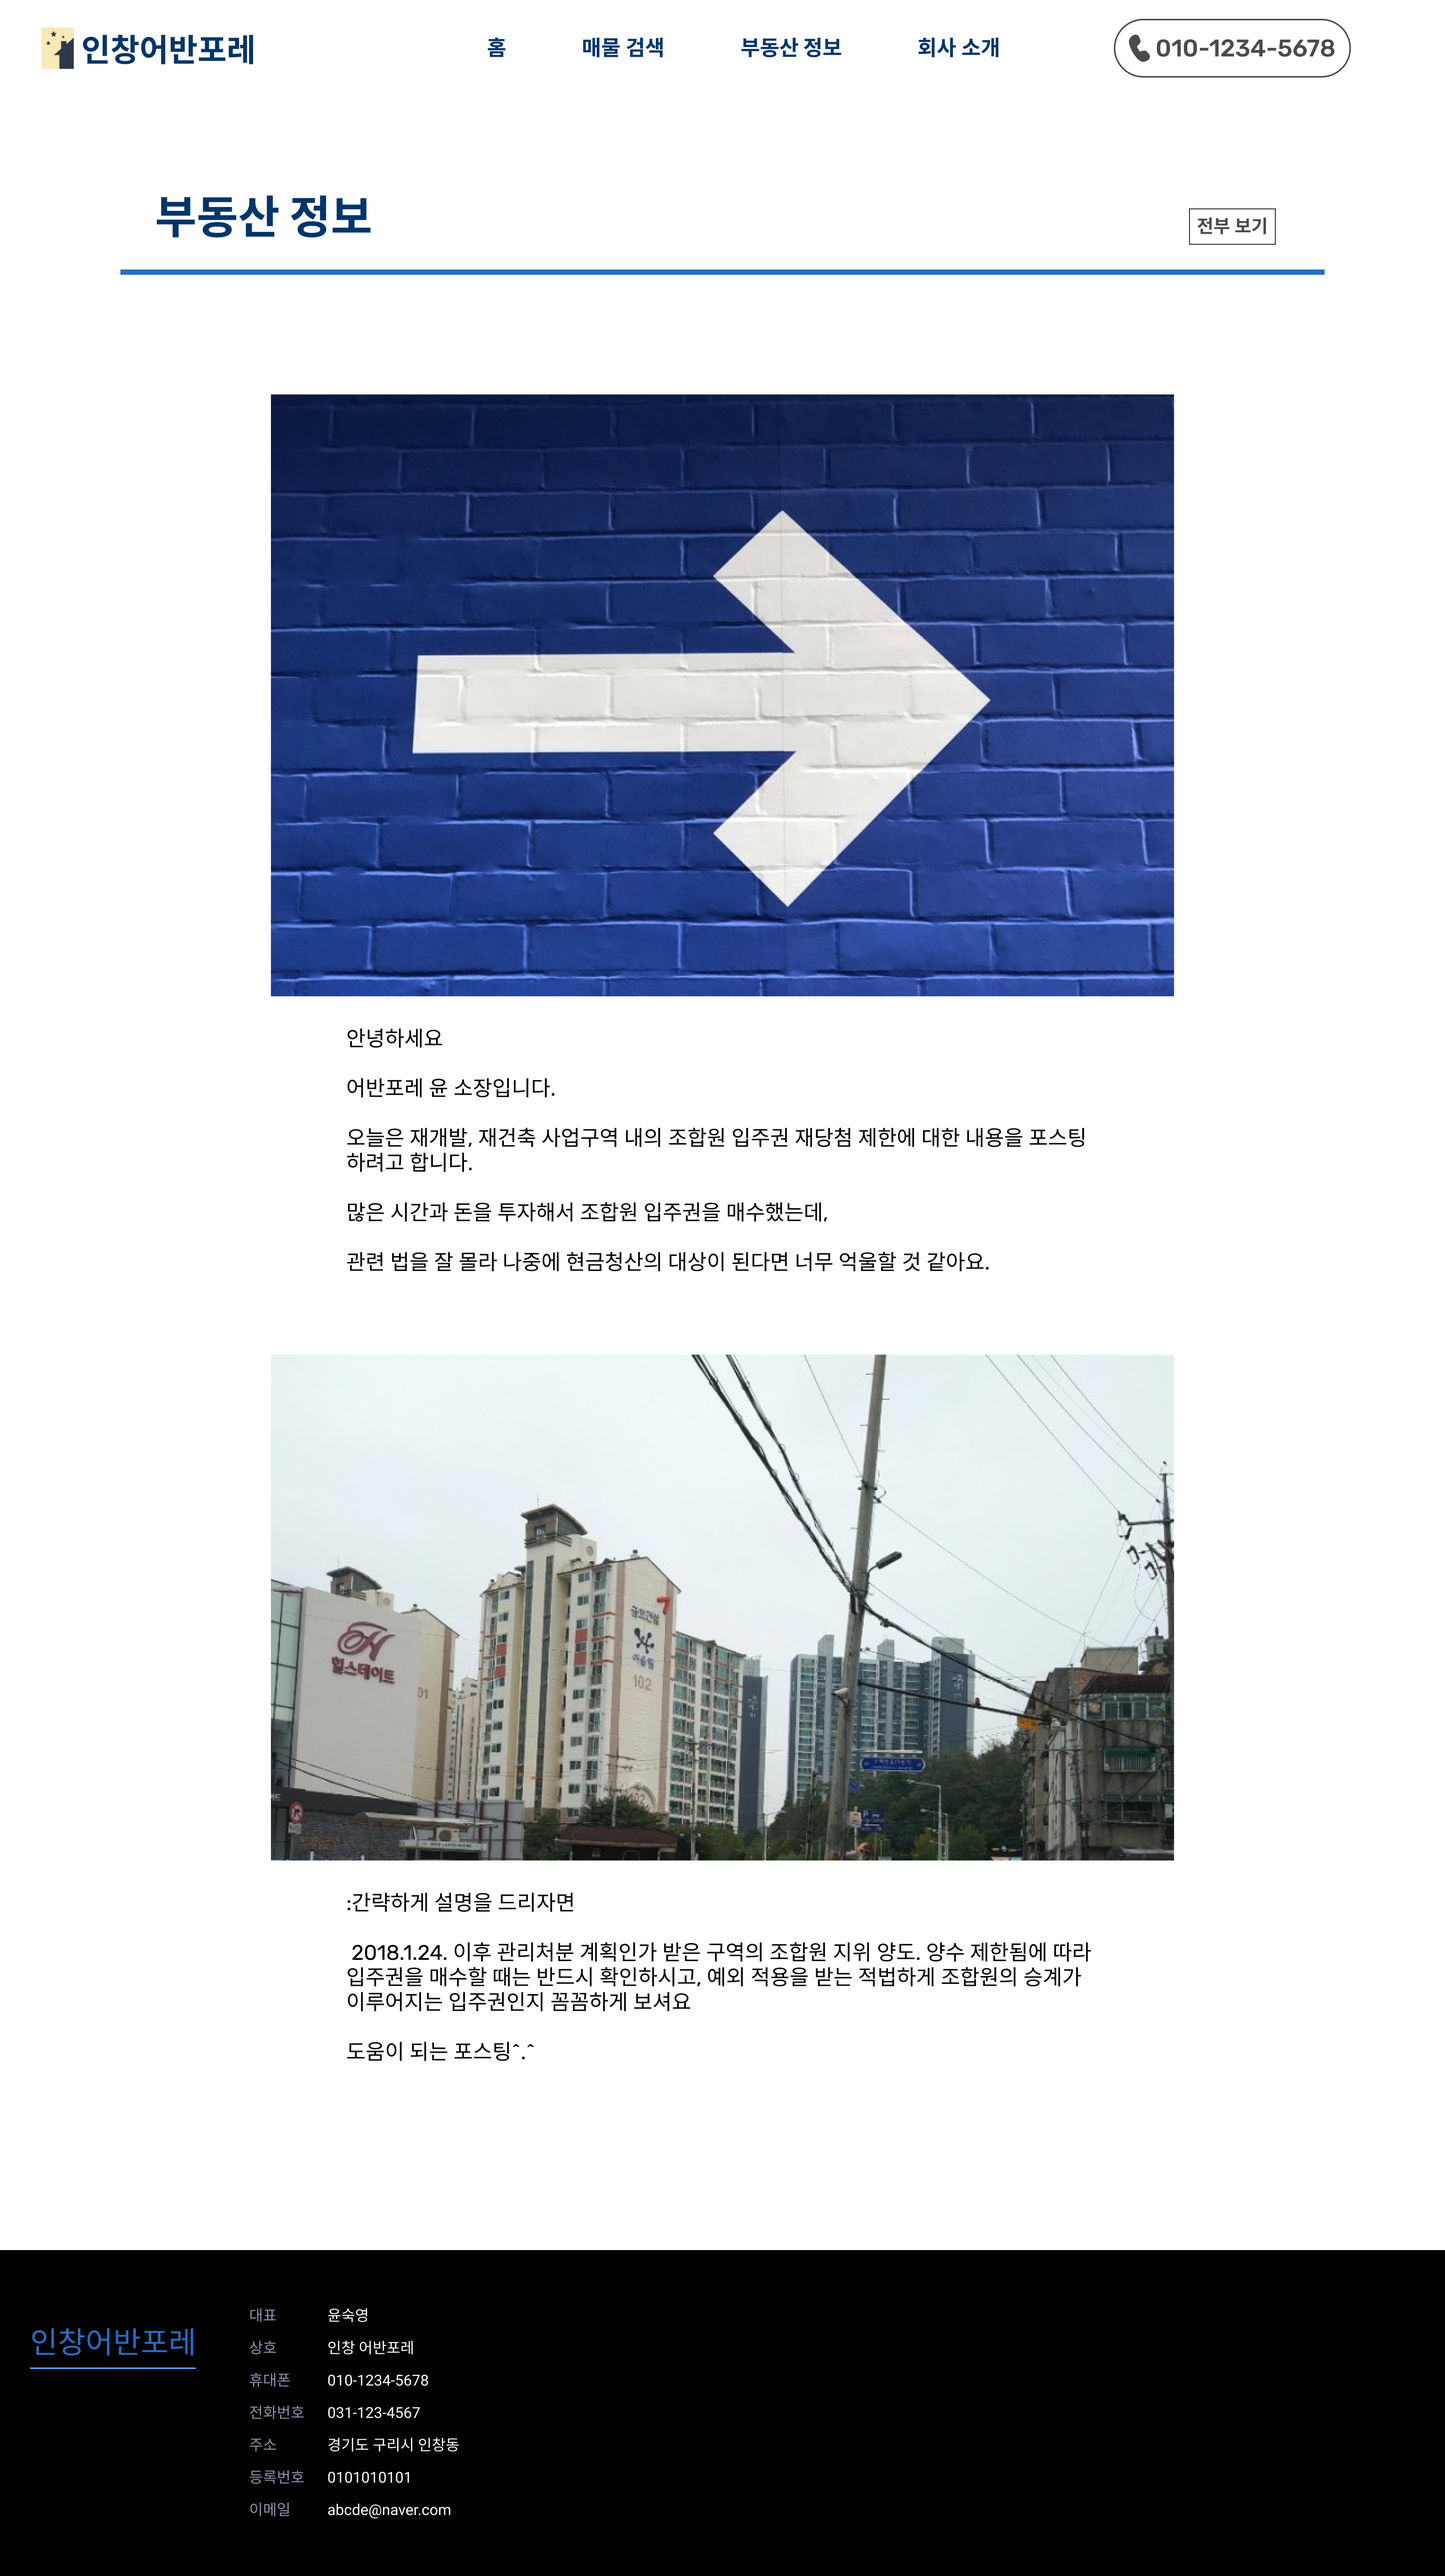
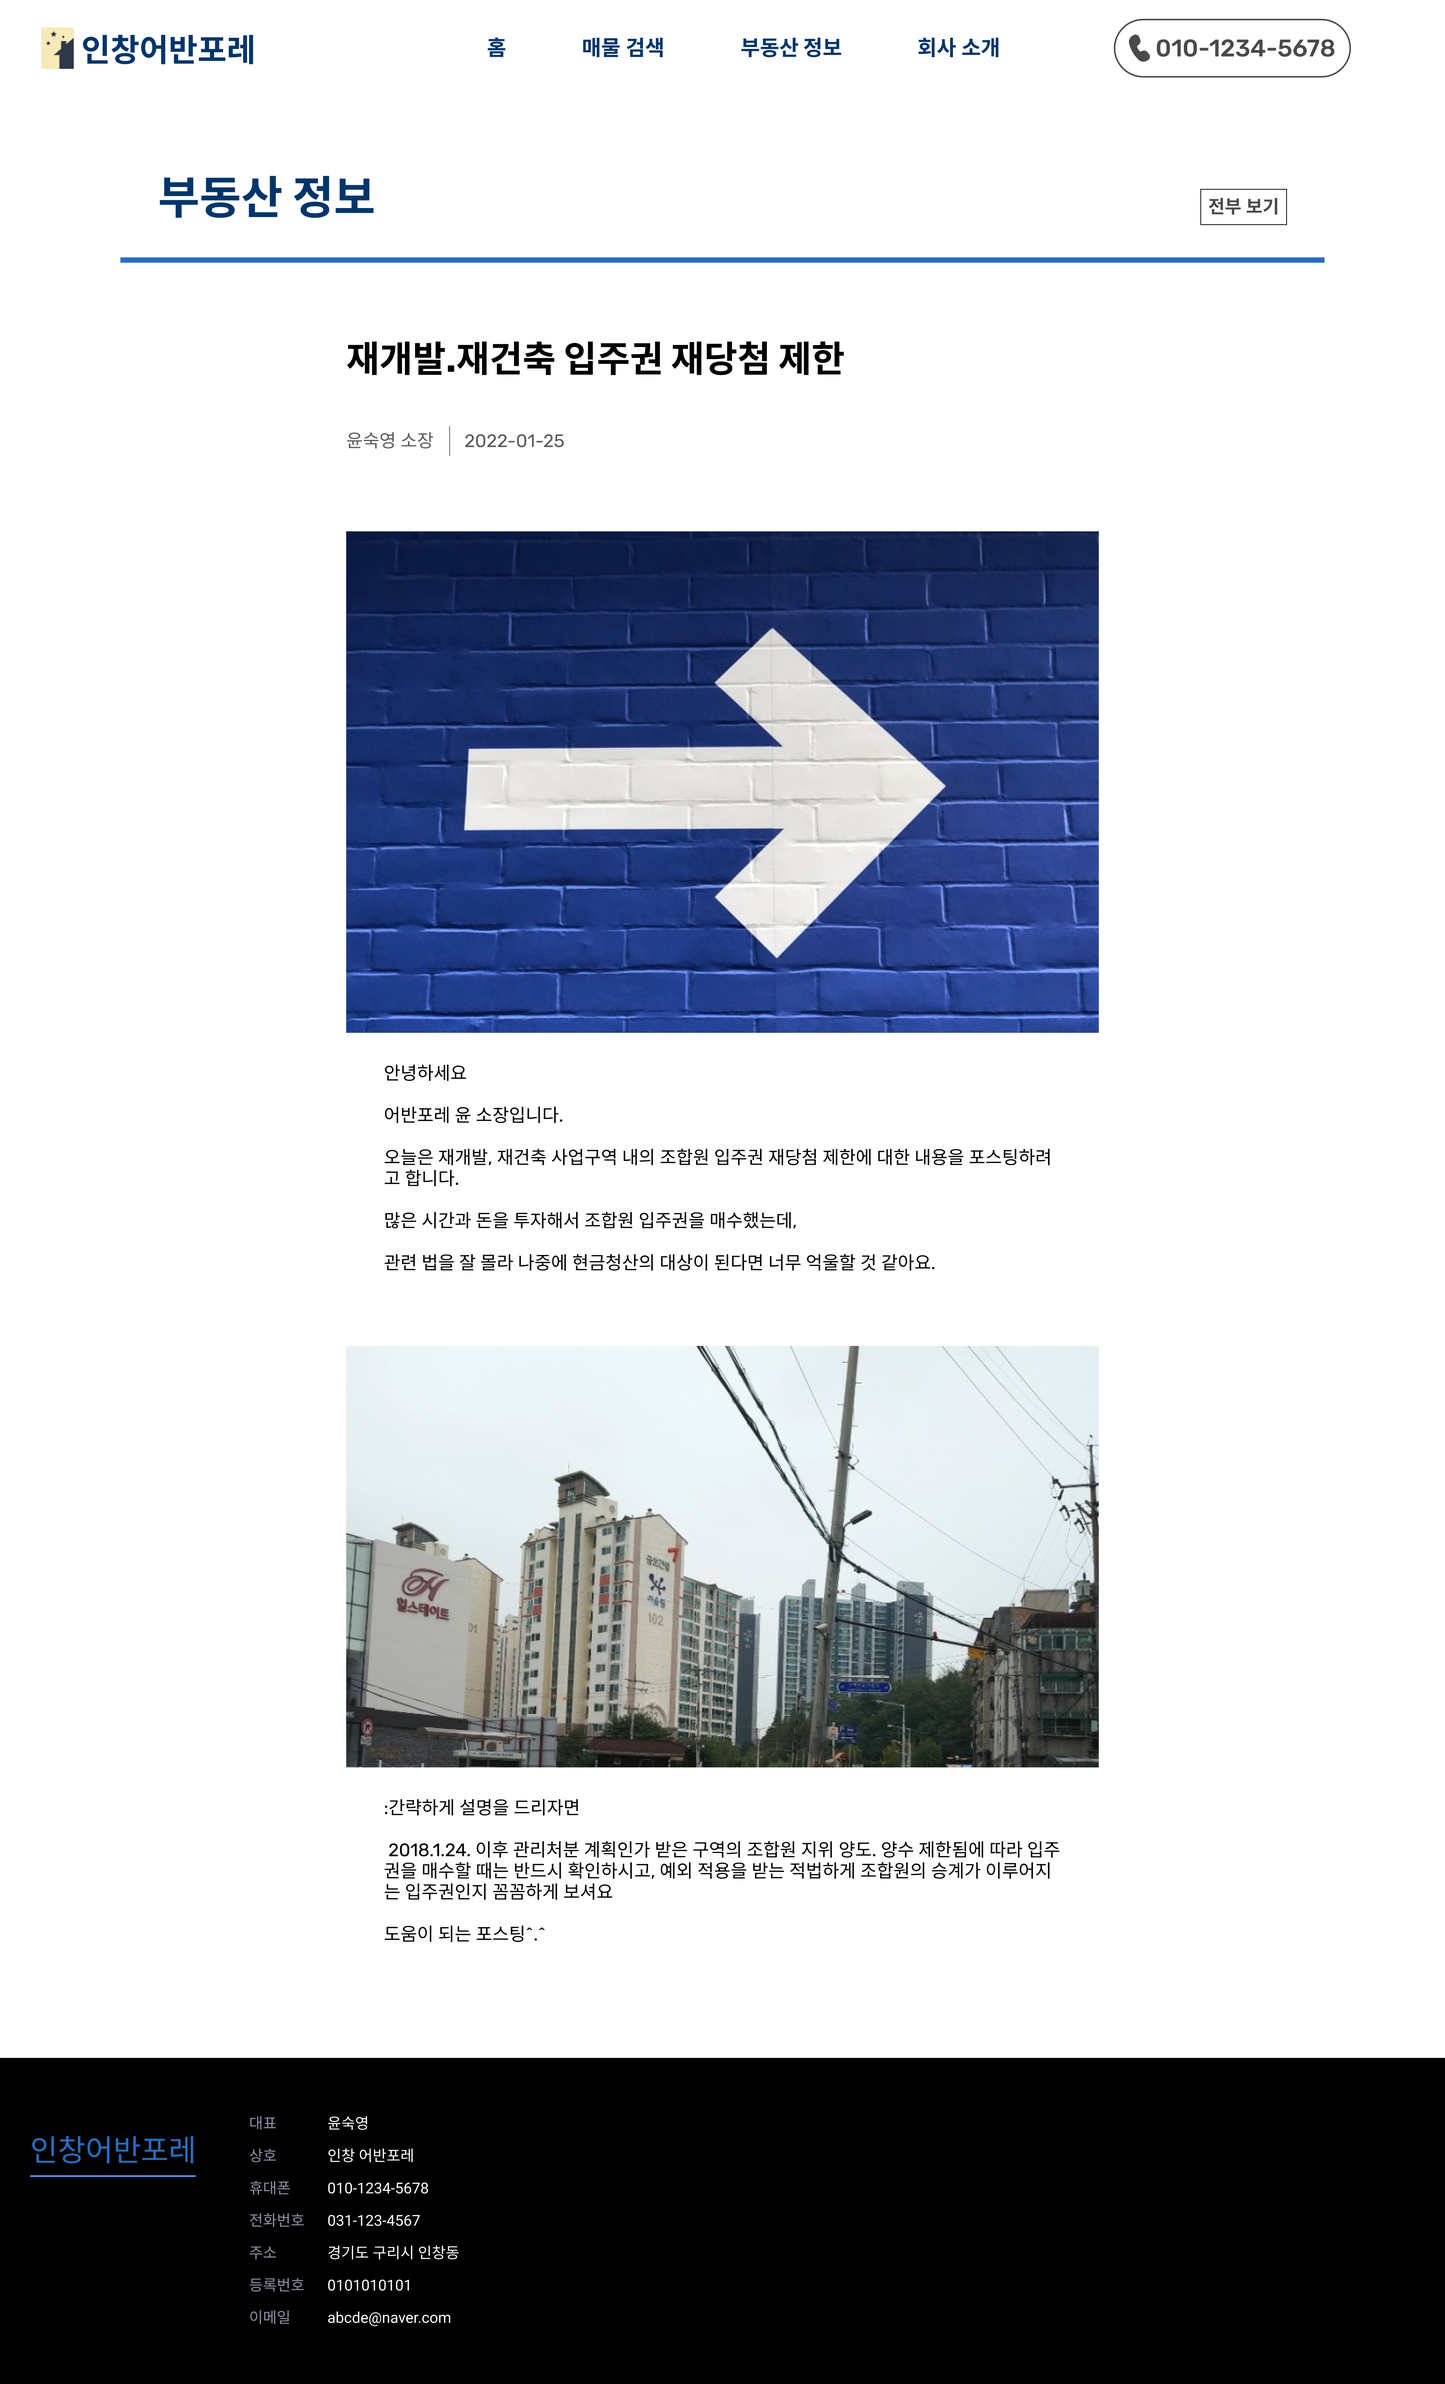
데스크탑, 모바일 이미지 반응형 적용

diff --git a/saleInfo/saleInfo.html b/saleInfo/saleInfo.html
@@ -14,7 +14,12 @@
     </style>
   </head>
   <body>
-    <img src="img/saleInfo.png" alt="urbanfore" />
+    <picture>
+      <source srcset="img/saleInfo-pc.png" media="(min-width: 769px)" />
+      <source srcset="img/saleInfo.png" media="(max-width: 768px)" />
+      <img src="img/saleInfo-pc.png" alt="이미지" />
+    </picture>
+    <!-- <img src="img/saleInfo.png" alt="urbanfore" /> -->
     <p>
       <a href="../index.html">홈</a>
       <a href="../saleList/saleList.html">매물 목록</a>

diff --git a/saleList/saleList.html b/saleList/saleList.html
@@ -14,7 +14,12 @@
     </style>
   </head>
   <body>
-    <img src="img/saleList.png" alt="urbanfore" />
+    <picture>
+      <source srcset="img/saleList-pc.png" media="(min-width: 769px)" />
+      <source srcset="img/saleList.png" media="(max-width: 768px)" />
+      <img src="img/saleList-pc.png" alt="이미지" />
+    </picture>
+    <!-- <img src="img/saleList.png" alt="urbanfore" /> -->
     <p>
       <a href="../index.html">홈</a>
       <a href="../saleList/saleList.html">매물 목록</a>

diff --git a/saleMap/saleMap.html b/saleMap/saleMap.html
@@ -14,7 +14,12 @@
     </style>
   </head>
   <body>
-    <img src="img/saleMap.png" alt="urbanfore" />
+    <picture>
+      <source srcset="img/saleMap-pc.png" media="(min-width: 769px)" />
+      <source srcset="img/saleMap.png" media="(max-width: 768px)" />
+      <img src="img/saleMap-pc.png" alt="이미지" />
+    </picture>
+    <!-- <img src="img/saleMap.png" alt="urbanfore" /> -->
     <p>
       <a href="../index.html">홈</a>
       <a href="../saleList/saleList.html">매물 목록</a>

diff --git a/board/board.html b/board/board.html
@@ -14,7 +14,12 @@
     </style>
   </head>
   <body>
-    <img src="img/board.png" alt="urbanfore" />
+    <picture>
+      <source srcset="img/board-pc.png" media="(min-width: 769px)" />
+      <source srcset="img/board.png" media="(max-width: 768px)" />
+      <img src="img/board-pc.png" alt="이미지" />
+    </picture>
+    <!-- <img src="img/board.png" alt="urbanfore" /> -->
     <p>
       <a href="../index.html">홈</a>
       <a href="../saleList/saleList.html">매물 목록</a>

diff --git a/intro/intro.html b/intro/intro.html
@@ -14,7 +14,12 @@
     </style>
   </head>
   <body>
-    <img src="img/intro.png" alt="urbanfore" />
+    <picture>
+      <source srcset="img/intro-pc.png" media="(min-width: 769px)" />
+      <source srcset="img/intro.png" media="(max-width: 768px)" />
+      <img src="img/intro-pc.png" alt="이미지" />
+    </picture>
+    <!-- <img src="img/intro.png" alt="urbanfore" /> -->
     <p>
       <a href="../index.html">홈</a>
       <a href="../saleList/saleList.html">매물 목록</a>

diff --git a/post/post.html b/post/post.html
@@ -14,7 +14,12 @@
     </style>
   </head>
   <body>
-    <img src="img/post.png" alt="urbanfore" />
+    <picture>
+      <source srcset="img/post-pc.png" media="(min-width: 769px)" />
+      <source srcset="img/post.png" media="(max-width: 768px)" />
+      <img src="img/post-pc.png" alt="이미지" />
+    </picture>
+    <!-- <img src="img/post.png" alt="urbanfore" /> -->
     <p>
       <a href="../index.html">홈</a>
       <a href="../saleList/saleList.html">매물 목록</a>

diff --git a/index.html b/index.html
@@ -14,7 +14,12 @@
     </style>
   </head>
   <body>
-    <img src="img/home.png" alt="urbanfore" />
+    <picture>
+      <source srcset="img/home-pc.png" media="(min-width: 769px)" />
+      <source srcset="img/home.png" media="(max-width: 768px)" />
+      <img src="img/home-pc.png" alt="이미지" />
+    </picture>
+    <!-- <img src="img/home.png" alt="urbanfore" /> -->
     <p>
       <a href="index.html">홈</a>
       <a href="saleList/saleList.html">매물 목록</a>
